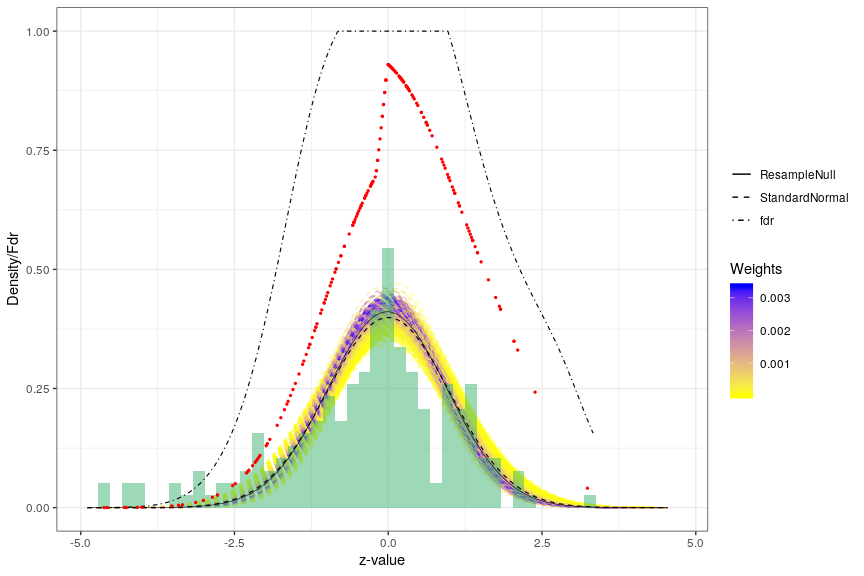
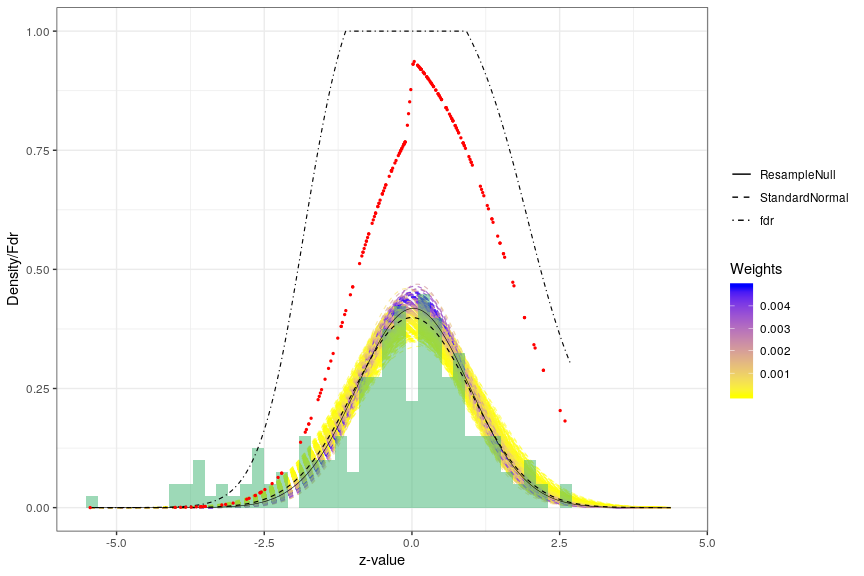
Namechange vignette, update readme, better bootstrap implementation

diff --git a/README.md b/README.md
@@ -2,7 +2,7 @@
 Introduction
 ============
 
-Dependence between test statistic is known to render statistical inference more variable. This is caused by the variability of the estimator of the null distribution under dependence. The aim of this *reconsi* pacakage is to provide REsampling COllapsed Null distributions for Simultaneous Inference to estimate these null density functions for improved inference. It can reduce the variability of the false discovery proportion, while increasing the power. Any type of test statistic can be supplied, only Wilcoxon rank sum test and two sample t-test are natively implemented. Both **permutations** and **bootstrapping** are implemented.
+Dependence between test statistic is known to render the fasle discovery proportion more variable. This is caused by the greater sampling variability of the test statistics under dependence. The aim of this *reconsi* pacakage is to provide REsampling COllapsed Null distributions for Simultaneous Inference to estimate the null density functions more precisely for improved inference. It can reduce the variability of the false discovery proportion, while increasing the sensitivity. Many types of test statistic can be supplied, but only Wilcoxon rank sum test and two sample t-test are natively implemented. Both **permutations** and **bootstrapping** are implemented.
 
 A short tutorial is given here, more detailed instructions can be found in the vignette.
 
@@ -47,7 +47,7 @@ The method provides an estimate of the proportion of true null hypothesis, which
 fdrRes$p0
 ```
 
-    ## [1] 0.8267394
+    ## [1] 0.8661424
 
 The result of the procedure can be represented graphically as follows:
 
@@ -60,11 +60,13 @@ plotNull(fdrRes)
 It is also possible to provide a custom test function, which must accept at least a 'y' response variable and a 'x' grouping factor. Additionally, a distribution function should be supplied for transformation through quantiles to z-values.
 
 ``` r
-# With another type of test
-fdrResLm = reconsi(mat, x, B = 50, test = function(x, y) {
+# Define a custom test function
+testFun = function(x, y) {
     fit = lm(y ~ x)
     c(summary(fit)$coef["x", "t value"], fit$df.residual)
-}, distFun = function(q) {
+}
+# Supply it to the reconsi algorithm
+fdrResLm = reconsi(mat, x, B = 50, test = testFun, distFun = function(q) {
     pt(q = q[1], df = q[2])
 })
 ```
@@ -72,12 +74,15 @@ fdrResLm = reconsi(mat, x, B = 50, test = function(x, y) {
 Case study
 ----------
 
-We illustrate the package using an application from microbiology. The species composition of a community of microorganisms can be determined through sequencing. However, this only yields compositional information, and knowledge of the population size can be acquired by cell counting through flow cytometry. Next, the obtained species compositions can multiplied by the total population size to yield approximate absolute cell counts per species. Evidently, this introduces strong correlation between the tests due to the common factor. In other words: random noise in the estimation of the total cell counts will affect all hypotheses. Therefore, we employ permutations to estimate the collapsed null distribution, that will account for this dependence.
+We illustrate the package using an application from microbiology. The species composition of a community of microorganisms can be determined through sequencing. However, this only yields compositional information, and knowledge of the population size can be acquired by cell counting through flow cytometry. Next, the obtained species compositions can multiplied by the total population size to yield approximate absolute cell counts per species. Evidently, this introduces strong correlation between the tests due to the common factor. In other words: random noise in the estimation of the total cell counts will affect all hypotheses. Also biological interactions between the species (e.g. due to competition or crossfeeding) can cause the outcome values to be correlated. Therefore, we employ permutations to estimate the collapsed null distribution, that will account for this dependence.
 
 The dataset used is taken from Vandeputte *et al.*, 2017 (see [manuscript](https://www.ncbi.nlm.nih.gov/pubmed/29143816)), a study on gut microbiome in healthy and Crohn's disease patients. The test looks for differences in absolute abundance between healthy and diseased patients. It relies on the [phyloseq](https://bioconductor.org/packages/release/bioc/html/phyloseq.html) package, which is the preferred way to interact with our machinery for microbiome data.
 
 ``` r
-testVanDePutte = testDAA(Vandeputte, "Health.status", "absCountFrozen", B = 100L)
+# The grouping and flow cytometry variables are present in the phyloseq
+# object, they only need to be called by their name.
+testVanDePutte = testDAA(Vandeputte, groupName = "Health.status", FCname = "absCountFrozen", 
+    B = 100L)
 ```
 
 The estimated tail-area false discovery rates can then simply be extracted as
@@ -88,7 +93,7 @@ quantile(FdrVDP)
 ```
 
     ##           0%          25%          50%          75%         100% 
-    ## 1.109305e-18 2.431294e-03 3.095229e-01 8.053481e-01 9.302977e-01
+    ## 6.558191e-19 2.023308e-03 2.629081e-01 8.130213e-01 9.544556e-01
 
 An approximation of the correlation matrix of the test statistics can be drawn as follows:
 
@@ -98,4 +103,4 @@ plotCperm(testVanDePutte)
 
 ![](README_figs/README-approxCor-1.png)
 
-This is the correlation matrix of binned test statistics, whereby yellow indicates negative correlations between bin counts and blue positive correlations. Each pixel represents a combination of two bins. It is clear that counts in the left and right tail are negatively correlated, and bin counts close together are positively correlated. This is a consequence of the collapsed null distribution being more variable.
+This is the correlation matrix of binned test statistics, whereby yellow indicates negative correlations between bin counts and blue positive correlations. Each pixel represents a combination of two bins. It is clear that counts in the left and right tail are negatively correlated, and bin counts close together are positively correlated.
